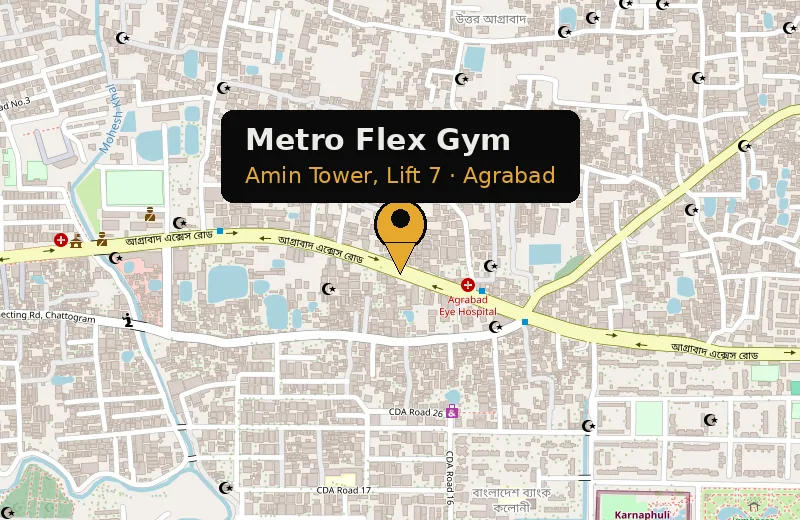
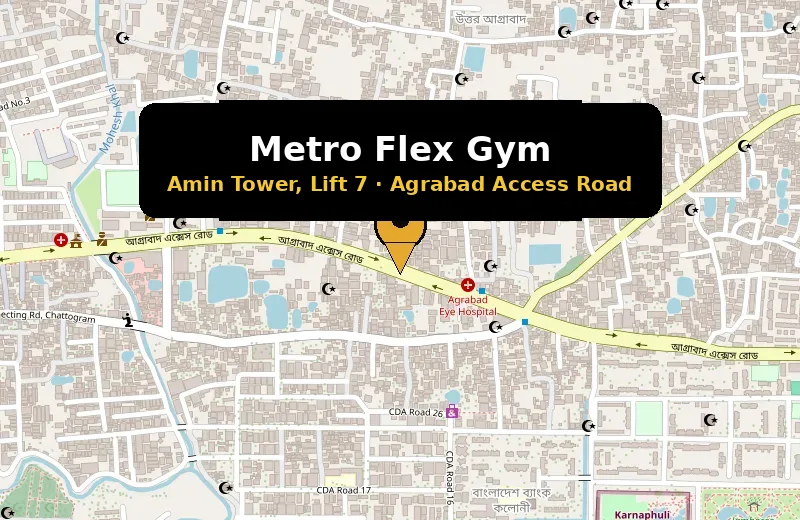
Metro Flex Gym — short address is now Agrabad Access Road
- 'Find us in Agrabad.' -> 'Find us on Agrabad Access Road.';
  header wordmark, photo caption and hero alt updated the same way.
- 'Agrabad Access Rd' spelled out as 'Agrabad Access Road' in the
  full address (Visit block, footer, JSON-LD, FAQ answer, payment
  page, home FAQ teaser).
- Meta descriptions now say Agrabad Access Road (FAQ, opening hours,
  owner, gents + ladies membership).
- Map image label redrawn: 'Amin Tower, Lift 7 · Agrabad Access
  Road'. Page titles keep 'Metro Flex Gym Agrabad' (titles, not the
  address).

Changed region(s): [[0.1562, 0.1846, 0.8438, 0.4308]]

diff --git a/app/faq/page.tsx b/app/faq/page.tsx
@@ -6,12 +6,12 @@ import type { Metadata } from 'next';
 export const metadata: Metadata = {
   title: 'Help & important Information — Metro Flex Gym Agrabad',
   description:
-    'Metro Flex Gym help & important information: opening hours, ladies-only hours, membership prices, how to pay, parking and location in Agrabad, Chattogram.',
+    'Metro Flex Gym help & important information: opening hours, ladies-only hours, membership prices, how to pay, parking and location in Agrabad Access Road, Chattogram.',
   alternates: { canonical: 'https://metroflexgym.com.bd/faq' },
   openGraph: {
     title: 'Help & important Information — Metro Flex Gym Agrabad',
     description:
-      'Metro Flex Gym help & important information: opening hours, ladies-only hours, membership prices, how to pay, parking and location in Agrabad, Chattogram.',
+      'Metro Flex Gym help & important information: opening hours, ladies-only hours, membership prices, how to pay, parking and location in Agrabad Access Road, Chattogram.',
     type: 'website',
     url: 'https://metroflexgym.com.bd/faq',
     siteName: 'Metro Flex Gym',
@@ -21,7 +21,7 @@ export const metadata: Metadata = {
     card: 'summary_large_image',
     title: 'Help & important Information — Metro Flex Gym Agrabad',
     description:
-      'Metro Flex Gym help & important information: opening hours, ladies-only hours, membership prices, how to pay, parking and location in Agrabad, Chattogram.',
+      'Metro Flex Gym help & important information: opening hours, ladies-only hours, membership prices, how to pay, parking and location in Agrabad Access Road, Chattogram.',
     images: ['https://metroflexgym.com.bd/images/hero.webp'],
   },
 };
@@ -161,7 +161,7 @@ export default function Faq() {
                 </summary>
                 <p className="mt-4 max-w-2xl text-base leading-relaxed text-muted">
                   Rafiq Ullah Bari, Bepari Para, Amin Tower (Lift 7), Agrabad
-                  Access Rd, Chattogram 4100 — on Agrabad Access Road, Bepari
+                  Access Road, Chattogram 4100 — on Agrabad Access Road, Bepari
                   Para. Take the lift to the 7th floor.{' '}
                   <a href={MAPS_URL} target="_blank" rel="noopener noreferrer" className="font-semibold text-gold underline underline-offset-4 hover:text-gold-bright">
                     Open in Google Maps →

diff --git a/app/page.tsx b/app/page.tsx
@@ -72,7 +72,7 @@ export default function Home() {
         <div className="absolute inset-0" aria-hidden="true">
           <Image
             src="/images/hero.webp"
-            alt="Cardio area inside Metro Flex Gym, Agrabad"
+            alt="Cardio area inside Metro Flex Gym, Agrabad Access Road"
             fill
             priority
             sizes="100vw"
@@ -139,7 +139,7 @@ export default function Home() {
                 loading="lazy"
               />
               <p className="mt-3 text-xs uppercase tracking-[0.25em] text-muted">
-                The free weights area — Metro Flex Gym, Agrabad
+                The free weights area — Metro Flex Gym, Agrabad Access Road
               </p>
             </div>
           </Reveal>
@@ -349,7 +349,7 @@ export default function Home() {
           {[
             { q: 'What are the ladies-only hours?', a: '2:30–5:30 PM daily, with a female trainer facility.' },
             { q: 'What does membership cost?', a: 'Starts at ৳4,500, no admission fee, 15% VAT applies.' },
-            { q: 'Where exactly are you?', a: 'Amin Tower, Lift 7, Agrabad Access Rd, Chattogram.' },
+            { q: 'Where exactly are you?', a: 'Amin Tower, Lift 7, Agrabad Access Road, Chattogram.' },
           ].map((item, i) => (
             <Reveal key={item.q} delay={i * 0.06} className="bg-ink">
               <article className="flex h-full flex-col justify-between p-7 md:p-8">
@@ -405,7 +405,7 @@ export default function Home() {
       {/* ------------------------------------------------ 08 · LOCATION */}
       <section id="location" className="border-t border-white/10 bg-surface">
         <div className="mx-auto max-w-7xl px-4 py-20 md:px-8 md:py-28">
-          <SectionHeading index="08" label="Location" title={<>Find us in<br />Agrabad.</>} />
+          <SectionHeading index="08" label="Location" title={<>Find us on<br />Agrabad Access Road.</>} />
           <div className="grid gap-10 lg:grid-cols-5 lg:gap-14">
             <Reveal className="lg:col-span-3">
               <a

diff --git a/app/owner/page.tsx b/app/owner/page.tsx
@@ -7,12 +7,12 @@ import type { Metadata } from 'next';
 export const metadata: Metadata = {
   title: 'Owner — MD Nasimul Haque Liton | Metro Flex Gym Agrabad',
   description:
-    'MD Nasimul Haque Liton, Founder & Owner of Metro Flex Gym in Agrabad, Chattogram.',
+    'MD Nasimul Haque Liton, Founder & Owner of Metro Flex Gym in Agrabad Access Road, Chattogram.',
   alternates: { canonical: 'https://metroflexgym.com.bd/owner' },
   openGraph: {
     title: 'Owner — MD Nasimul Haque Liton | Metro Flex Gym Agrabad',
     description:
-      'MD Nasimul Haque Liton, Founder & Owner of Metro Flex Gym in Agrabad, Chattogram.',
+      'MD Nasimul Haque Liton, Founder & Owner of Metro Flex Gym in Agrabad Access Road, Chattogram.',
     type: 'website',
     url: 'https://metroflexgym.com.bd/owner',
     siteName: 'Metro Flex Gym',
@@ -22,7 +22,7 @@ export const metadata: Metadata = {
     card: 'summary_large_image',
     title: 'Owner — MD Nasimul Haque Liton | Metro Flex Gym Agrabad',
     description:
-      'MD Nasimul Haque Liton, Founder & Owner of Metro Flex Gym in Agrabad, Chattogram.',
+      'MD Nasimul Haque Liton, Founder & Owner of Metro Flex Gym in Agrabad Access Road, Chattogram.',
     images: ['https://metroflexgym.com.bd/images/owner.webp'],
   },
 };
@@ -66,7 +66,7 @@ export default function Owner() {
             <SectionHeading index="01" label="Founder & Owner" title={<>MD Nasimul<br />Haque Liton.</>} />
             <p className="mt-6 text-lg md:text-xl leading-relaxed text-bone/90">
               MD Nasimul Haque Liton is the Founder &amp; Owner of Metro Flex Gym —
-              a gents &amp; ladies gym in Agrabad, Chattogram.
+              a gents &amp; ladies gym in Agrabad Access Road, Chattogram.
             </p>
             <p className="mt-5 text-base leading-relaxed text-muted">
               The gym runs on commercial equipment (Impulse &amp; Real Leader), with

diff --git a/app/ladies/page.tsx b/app/ladies/page.tsx
@@ -7,12 +7,12 @@ import type { Metadata } from 'next';
 export const metadata: Metadata = {
   title: 'Ladies Membership — Metro Flex Gym Agrabad',
   description:
-    'Ladies membership at Metro Flex Gym, Agrabad: 9 packages from ৳4,500, monthly to 10 years, with or without steam bath. No admission fee, 15% VAT applies.',
+    'Ladies membership at Metro Flex Gym, Agrabad Access Road: 9 packages from ৳4,500, monthly to 10 years, with or without steam bath. No admission fee, 15% VAT applies.',
   alternates: { canonical: 'https://metroflexgym.com.bd/ladies' },
   openGraph: {
     title: 'Ladies Membership — Metro Flex Gym Agrabad',
     description:
-      'Ladies membership at Metro Flex Gym, Agrabad: 9 packages from ৳4,500, monthly to 10 years, with or without steam bath. No admission fee, 15% VAT applies.',
+      'Ladies membership at Metro Flex Gym, Agrabad Access Road: 9 packages from ৳4,500, monthly to 10 years, with or without steam bath. No admission fee, 15% VAT applies.',
     type: 'website',
     url: 'https://metroflexgym.com.bd/ladies',
     siteName: 'Metro Flex Gym',
@@ -22,7 +22,7 @@ export const metadata: Metadata = {
     card: 'summary_large_image',
     title: 'Ladies Membership — Metro Flex Gym Agrabad',
     description:
-      'Ladies membership at Metro Flex Gym, Agrabad: 9 packages from ৳4,500, monthly to 10 years, with or without steam bath. No admission fee, 15% VAT applies.',
+      'Ladies membership at Metro Flex Gym, Agrabad Access Road: 9 packages from ৳4,500, monthly to 10 years, with or without steam bath. No admission fee, 15% VAT applies.',
     images: ['https://metroflexgym.com.bd/images/hero.webp'],
   },
 };

diff --git a/app/membership/page.tsx b/app/membership/page.tsx
@@ -7,12 +7,12 @@ import type { Metadata } from 'next';
 export const metadata: Metadata = {
   title: 'Gents Membership — Metro Flex Gym Agrabad',
   description:
-    'Gents membership at Metro Flex Gym, Agrabad: 9 packages from ৳4,500, monthly to 10 years, with or without steam bath. No admission fee, 15% VAT applies.',
+    'Gents membership at Metro Flex Gym, Agrabad Access Road: 9 packages from ৳4,500, monthly to 10 years, with or without steam bath. No admission fee, 15% VAT applies.',
   alternates: { canonical: 'https://metroflexgym.com.bd/membership' },
   openGraph: {
     title: 'Gents Membership — Metro Flex Gym Agrabad',
     description:
-      'Gents membership at Metro Flex Gym, Agrabad: 9 packages from ৳4,500, monthly to 10 years, with or without steam bath. No admission fee, 15% VAT applies.',
+      'Gents membership at Metro Flex Gym, Agrabad Access Road: 9 packages from ৳4,500, monthly to 10 years, with or without steam bath. No admission fee, 15% VAT applies.',
     type: 'website',
     url: 'https://metroflexgym.com.bd/membership',
     siteName: 'Metro Flex Gym',
@@ -22,7 +22,7 @@ export const metadata: Metadata = {
     card: 'summary_large_image',
     title: 'Gents Membership — Metro Flex Gym Agrabad',
     description:
-      'Gents membership at Metro Flex Gym, Agrabad: 9 packages from ৳4,500, monthly to 10 years, with or without steam bath. No admission fee, 15% VAT applies.',
+      'Gents membership at Metro Flex Gym, Agrabad Access Road: 9 packages from ৳4,500, monthly to 10 years, with or without steam bath. No admission fee, 15% VAT applies.',
     images: ['https://metroflexgym.com.bd/images/hero.webp'],
   },
 };

diff --git a/app/opening-hours/page.tsx b/app/opening-hours/page.tsx
@@ -8,12 +8,12 @@ import type { Metadata } from 'next';
 export const metadata: Metadata = {
   title: 'Opening Hours — Metro Flex Gym Agrabad',
   description:
-    'Metro Flex Gym opening hours: Saturday to Thursday 7:00 AM–11:00 PM. Friday 5:00–9:00 PM (optional service). Agrabad, Chattogram.',
+    'Metro Flex Gym opening hours: Saturday to Thursday 7:00 AM–11:00 PM. Friday 5:00–9:00 PM (optional service). Agrabad Access Road, Chattogram.',
   alternates: { canonical: 'https://metroflexgym.com.bd/opening-hours' },
   openGraph: {
     title: 'Opening Hours — Metro Flex Gym Agrabad',
     description:
-      'Metro Flex Gym opening hours: Saturday to Thursday 7:00 AM–11:00 PM. Friday 5:00–9:00 PM (optional service). Agrabad, Chattogram.',
+      'Metro Flex Gym opening hours: Saturday to Thursday 7:00 AM–11:00 PM. Friday 5:00–9:00 PM (optional service). Agrabad Access Road, Chattogram.',
     type: 'website',
     url: 'https://metroflexgym.com.bd/opening-hours',
     siteName: 'Metro Flex Gym',
@@ -23,7 +23,7 @@ export const metadata: Metadata = {
     card: 'summary_large_image',
     title: 'Opening Hours — Metro Flex Gym Agrabad',
     description:
-      'Metro Flex Gym opening hours: Saturday to Thursday 7:00 AM–11:00 PM. Friday 5:00–9:00 PM (optional service). Agrabad, Chattogram.',
+      'Metro Flex Gym opening hours: Saturday to Thursday 7:00 AM–11:00 PM. Friday 5:00–9:00 PM (optional service). Agrabad Access Road, Chattogram.',
     images: ['https://metroflexgym.com.bd/images/hero.webp'],
   },
 };

diff --git a/app/layout.tsx b/app/layout.tsx
@@ -79,7 +79,7 @@ const jsonLd = {
     'The fitness center providing tremendous gymnasium facilities in the city for handsome men & women.',
   address: {
     '@type': 'PostalAddress',
-    streetAddress: 'Rafiq Ullah Bari, Bepari Para, Amin Tower (Lift 7), Agrabad Access Rd',
+    streetAddress: 'Rafiq Ullah Bari, Bepari Para, Amin Tower (Lift 7), Agrabad Access Road',
     addressLocality: 'Chattogram',
     postalCode: '4100',
     addressCountry: 'BD',
@@ -127,7 +127,7 @@ export default function RootLayout({ children }: { children: React.ReactNode }) 
                   Metro Flex <span className="text-gold-gradient">Gym</span>
                 </span>
                 <span className="mt-1 hidden text-[10px] tracking-[0.3em] uppercase text-muted sm:block">
-                  Gents &amp; Ladies — Agrabad
+                  Gents &amp; Ladies — Agrabad Access Road
                 </span>
               </span>
             </Link>

diff --git a/components/Contact.tsx b/components/Contact.tsx
@@ -13,7 +13,7 @@ export const CALL_DISPLAY = '+880 1715-266172';
 export const FACEBOOK_URL = 'https://facebook.com/M.flexgym';
 export const MAPS_URL = 'https://maps.app.goo.gl/3e4QB8Xzyi5P57Nd6';
 export const ADDRESS =
-  'Rafiq Ullah Bari, Bepari Para, Amin Tower (Lift 7), Agrabad Access Rd, Chattogram 4100';
+  'Rafiq Ullah Bari, Bepari Para, Amin Tower (Lift 7), Agrabad Access Road, Chattogram 4100';
 
 function WhatsAppIcon({ className }: { className?: string }) {
   return (

diff --git a/app/payment/page.tsx b/app/payment/page.tsx
@@ -176,7 +176,7 @@ export default function Payment() {
               <p className="mt-6 text-sm text-muted">
                 Prefer to visit?{' '}
                 <Link href="/#location" className="font-semibold text-gold underline underline-offset-4 hover:text-gold-bright">
-                  Amin Tower (Lift 7), Agrabad Access Rd, Chattogram
+                  Amin Tower (Lift 7), Agrabad Access Road, Chattogram
                 </Link>
               </p>
             </div>
